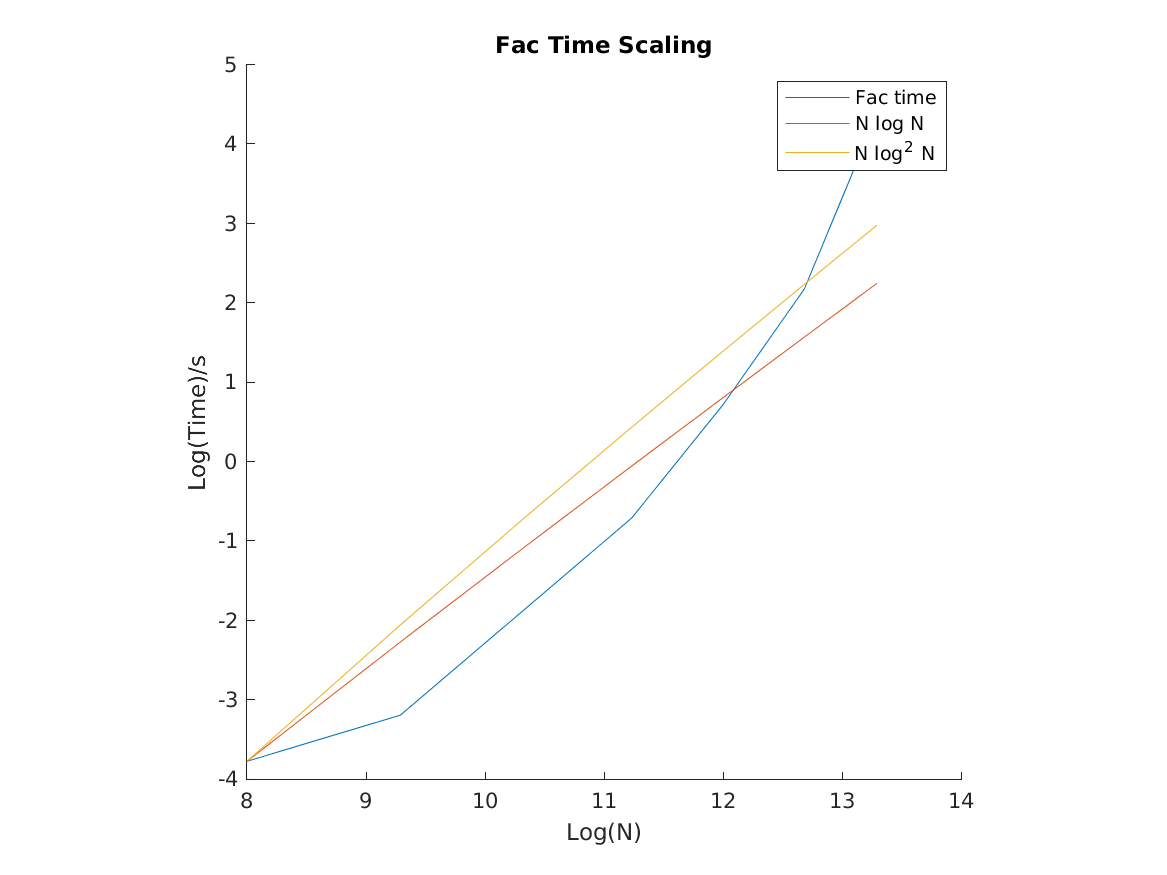
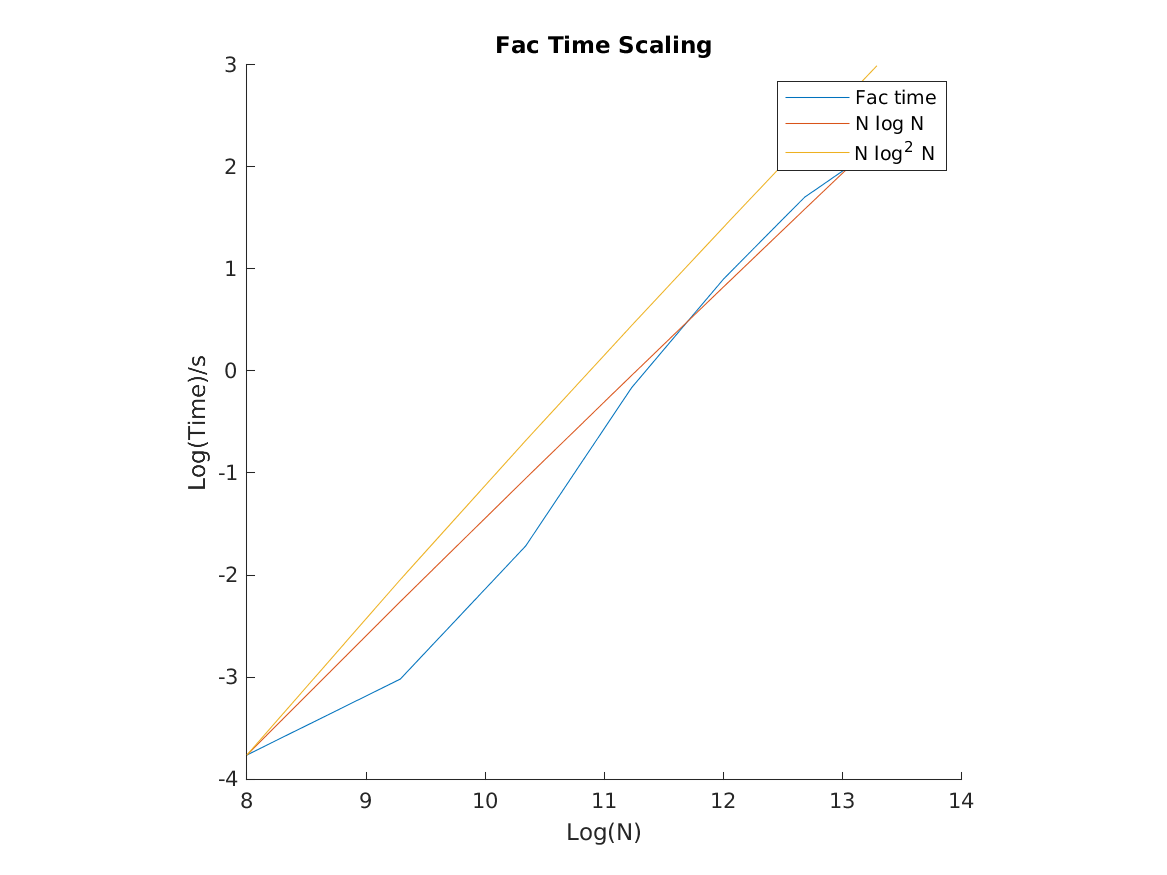
kernel6 scaling

diff --git a/scaling_hqr.m b/scaling_hqr.m
@@ -4,7 +4,7 @@ clear all;
 startup;
 
 tol = 1e-12
-kernel = "7"
+kernel = "6"
 fun_name = "fun" + kernel;
 func_name = fun_name;
 occ = 32;
@@ -17,7 +17,7 @@ tt = 6;
 rand_or_cheb = 'cheb';
 
 % dims = [16 25 36]
-dims = [16 25 36 49 64 81 100]
+dims = [16 25 36 49 64 81 100 121 144]
 cases = length(dims);
 apptime = zeros(cases, 1);
 bferr = zeros(cases, 1);
@@ -70,21 +70,21 @@ for i = 1:cases
     A = BF_apply(Factor,eye(N));
     ATA = BF_adj_apply(Factor, A);
 
-    condA = cond(A);
-    condATA = cond(ATA);
-    fprintf('condition number estimation of A  : %10.4e \n', condA)
-    fprintf('condition number estimation of ATA: %10.4e \n', condATA)
+    %condA = cond(A);
+    %condATA = cond(ATA);
+    %fprintf('condition number estimation of A  : %10.4e \n', condA)
+    %fprintf('condition number estimation of ATA: %10.4e \n', condATA)
 
-    condAs(i) = condA;
-    condATAs(i) = condATA;
+    %condAs(i) = condA;
+    %condATAs(i) = condATA;
     
     A1 = fun(xx, kk);
     ATA1 = A1'*A1;
 
-    condA1 = cond(A1);
-    condATA1 = cond(ATA1);
-    fprintf('condition number estimation of A1  : %10.4e \n', condA1)
-    fprintf('condition number estimation of ATA1: %10.4e \n', condATA1)
+    %condA1 = cond(A1);
+    %condATA1 = cond(ATA1);
+    %fprintf('condition number estimation of A1  : %10.4e \n', condA1)
+    %fprintf('condition number estimation of ATA1: %10.4e \n', condATA1)
     
     randx = rand(N, 1);
     bfacc = norm(A*randx-A1*randx)/norm(A1*randx);
